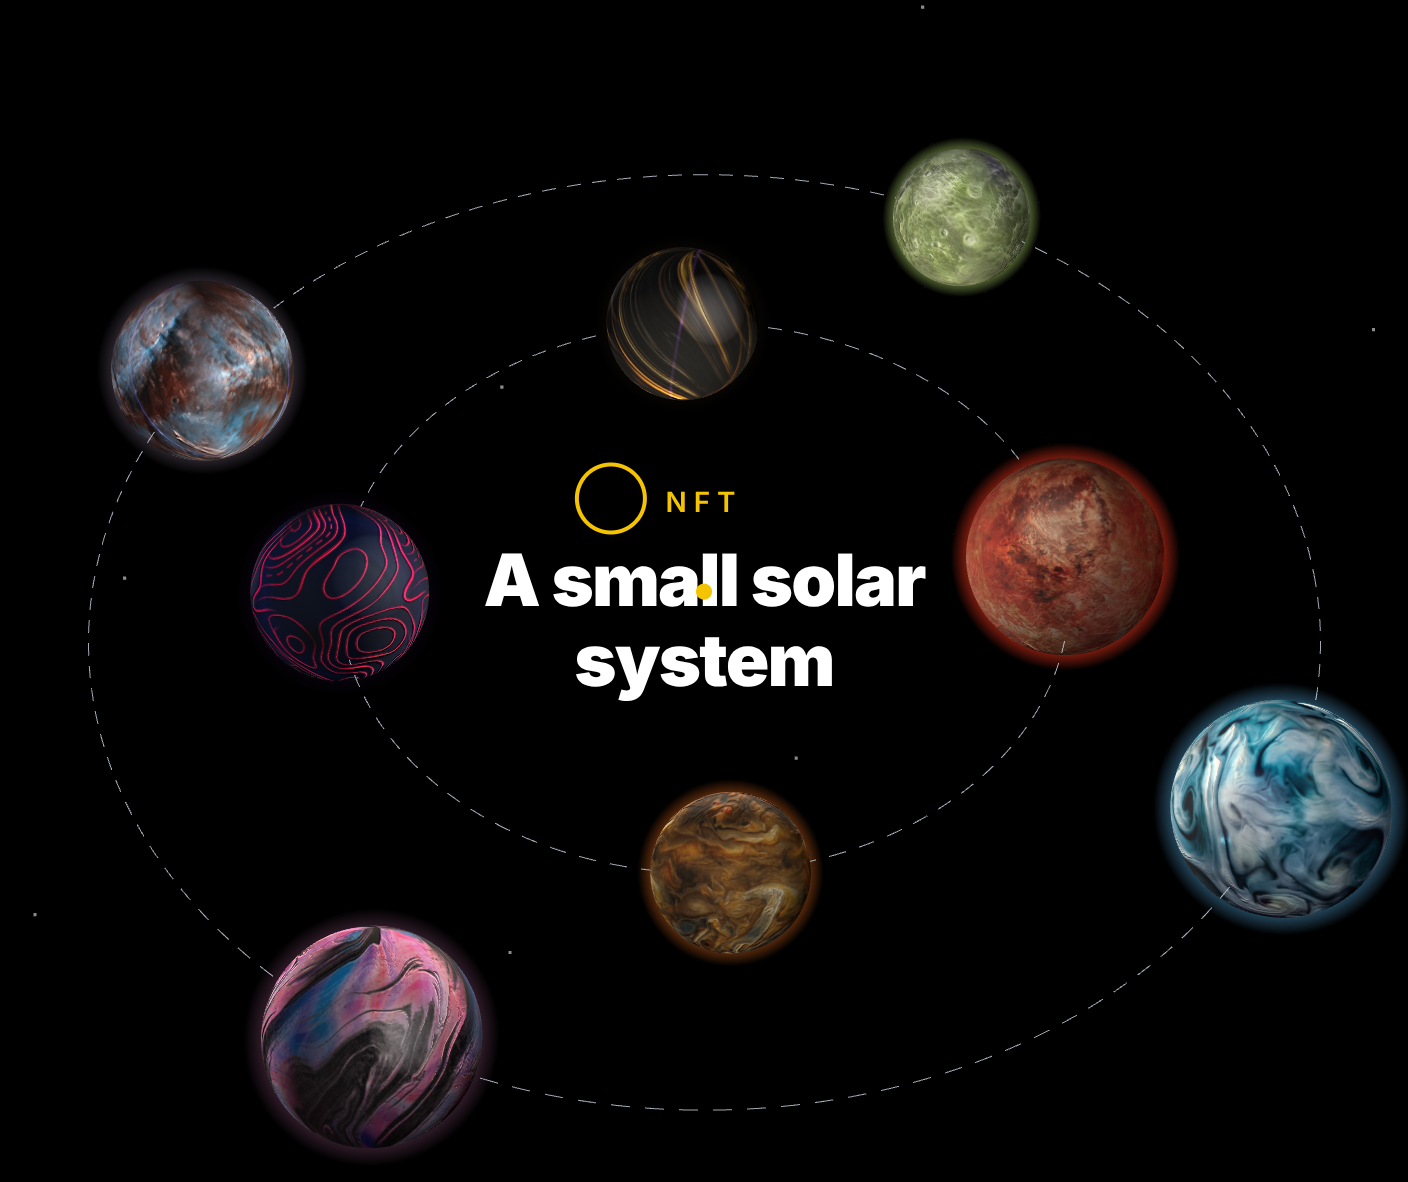
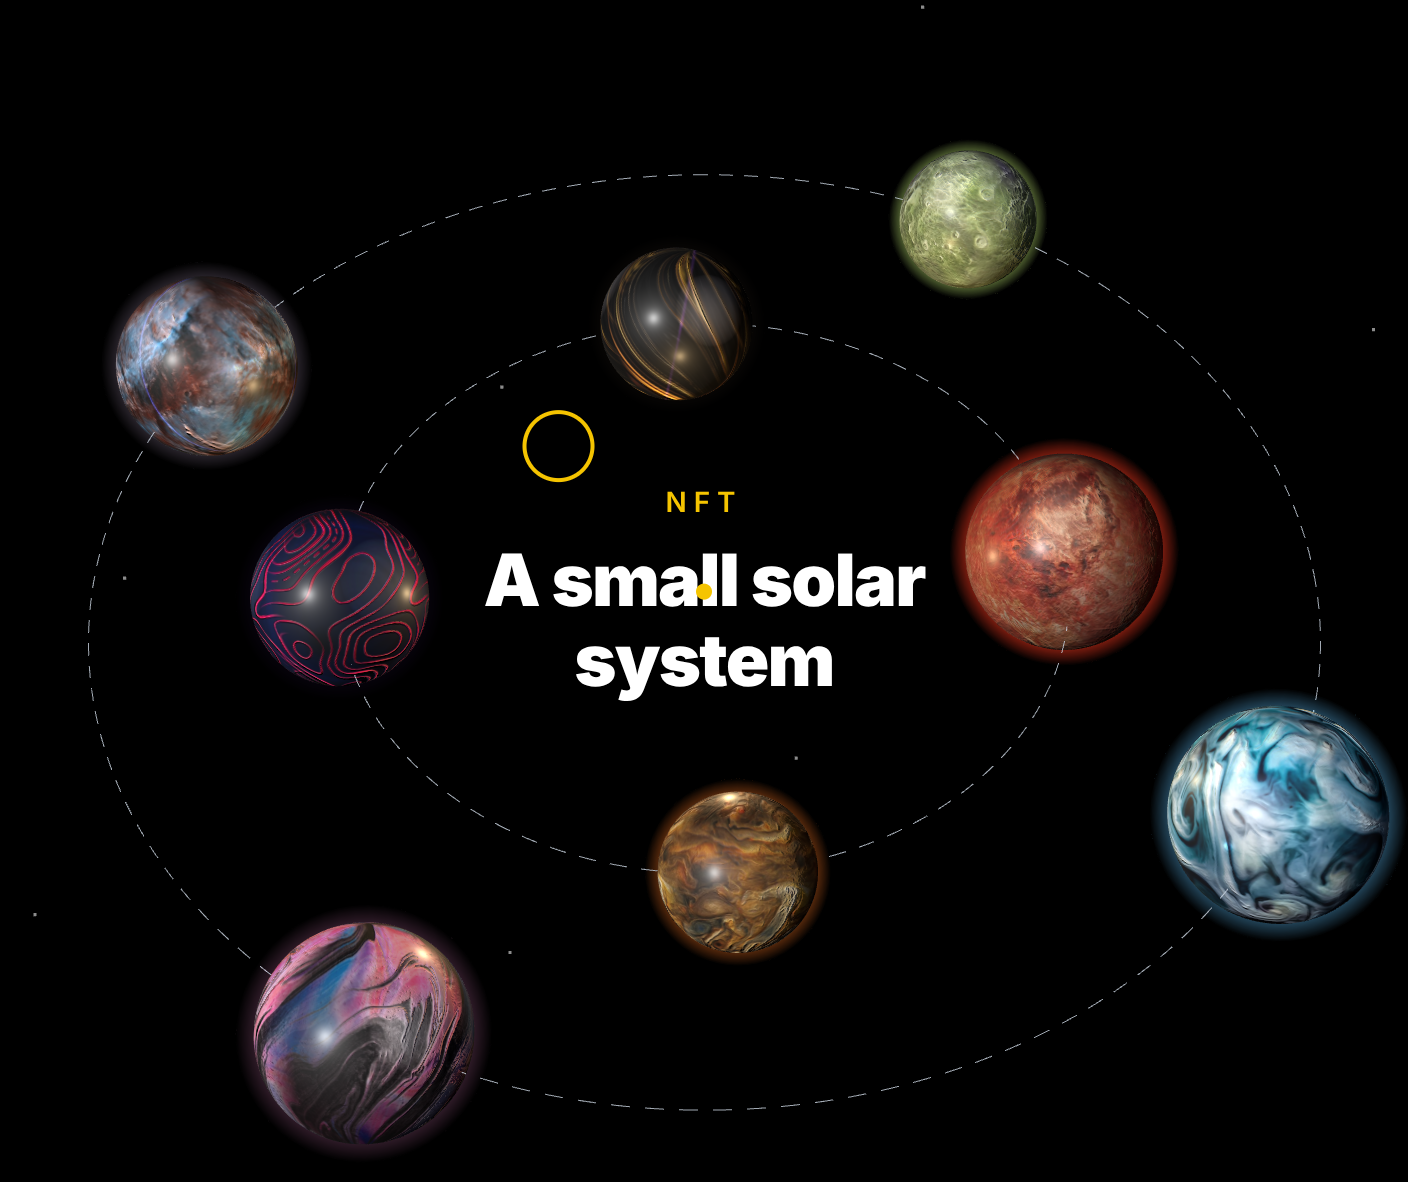
Orbit 3D look: shade planets as solid balls and let visitors turn them
A strong key light with little fill gives every planet a lit side, a shadow side
and a glossy clearcoat highlight, with a warm light from the middle of the system,
so each one reads as a sphere rather than a disc. Planets can be grabbed and
turned by hand (touch too, without blocking vertical scrolling) and keep turning
for a moment when let go. Adds a turntable sheet of all eight planets.

Claude-Session: https://claude.ai/code/session_01KjeKB3t9otzsPaULNBKz9P

diff --git a/apps/web/components/blocks/animated/OrbitScene.vue b/apps/web/components/blocks/animated/OrbitScene.vue
@@ -3,8 +3,9 @@
  * The 3D look of the orbit block: a small solar system seen in perspective from above and in front. Each picture
  * becomes a globe (see lib/planet-globe) with a little relief and a glowing atmosphere, spinning on its own tilted
  * axis while the two dashed orbits carry the planets round in opposite directions; on a dark background a few stars
- * drift behind. Moving the pointer swings the camera a little; pointing at the system stops the orbits (the planets
- * keep spinning) and names the planet under the pointer. Three.js is only downloaded by pages that use this look.
+ * drift behind. Each planet can be grabbed and turned by hand, and keeps turning for a moment when let go. Moving
+ * the pointer swings the camera a little; pointing at the system stops the orbits (the planets keep spinning) and
+ * names the planet under the pointer. Three.js is only downloaded by pages that use this look.
  * While `still` (the editor, or a visitor who asked for less motion) one frame is drawn and nothing moves. Emits
  * `ready` once the first frame with its pictures is on screen, and `failed` when the browser can't draw WebGL.
  */
@@ -105,13 +106,15 @@ onMounted(async () => {
   const camera = new THREE.PerspectiveCamera(FOV, 1, 0.1, 60);
   let distance = 4;
 
-  // Light comes from the middle of the system, like a sun, with soft fill so the far sides aren't black.
-  scene.add(new THREE.HemisphereLight(0xffffff, 0x404060, dark ? 0.9 : 1.3));
-  const sun = new THREE.PointLight(0xfff4e0, 3.2, 0, 0);
-  scene.add(sun);
-  const key = new THREE.DirectionalLight(0xffffff, 0.8);
-  key.position.set(-2, 3, 2);
+  // Real shading, so each planet reads as a ball: a strong light from the upper left gives every planet a lit side,
+  // a soft shadow side and a glossy highlight; a warm light in the middle of the system, like a sun, catches the
+  // sides facing it; and only a little fill, so the shadow sides stay dark without going black.
+  scene.add(new THREE.HemisphereLight(0xdde4ff, 0x10101a, dark ? 0.35 : 0.7));
+  const key = new THREE.DirectionalLight(0xffffff, 3);
+  key.position.set(-2.5, 3, 2.2);
   scene.add(key);
+  const sun = new THREE.PointLight(0xffd9a0, 2.2, 0, 0);
+  scene.add(sun);
 
   const ringColor = new THREE.Color(ringTone.value ? getComputedStyle(ringTone.value).color : '#cbd5e1');
   const accent = new THREE.Color(accentTone.value ? getComputedStyle(accentTone.value).color : '#6366f1');
@@ -132,12 +135,20 @@ onMounted(async () => {
     direction: number;
     speed: number;
     spin: number;
+    /** Extra turn from being dragged, in radians per second round the camera's up and right axes; it dies away. */
+    fling: Three.Vector2;
     name: string;
   }
   const planets: Planet[] = [];
 
   function makePlanet(item: Item, size: number) {
-    const material = new THREE.MeshStandardMaterial({ roughness: 0.85, metalness: 0, color: item.image ? 0xffffff : accent });
+    const material = new THREE.MeshPhysicalMaterial({
+      roughness: 0.62,
+      metalness: 0,
+      clearcoat: 0.5,
+      clearcoatRoughness: 0.3,
+      color: item.image ? 0xffffff : accent,
+    });
     const glowMaterial = new THREE.ShaderMaterial({
       vertexShader: ATMOSPHERE_VERTEX,
       fragmentShader: ATMOSPHERE_FRAGMENT,
@@ -219,6 +230,7 @@ onMounted(async () => {
         direction: ring.direction,
         speed: ring.speed,
         spin: 0.25 + hash(seed + 11) * 0.3,
+        fling: new THREE.Vector2(),
         name: item.name,
       });
     });
@@ -308,29 +320,82 @@ onMounted(async () => {
   const pointer = new THREE.Vector2();
   const raycaster = new THREE.Raycaster();
   let hovering = false;
-  function pick() {
+  let grabbed: { planet: Planet; x: number; y: number; time: number } | null = null;
+  function planetAt() {
     raycaster.setFromCamera(pointer, camera);
     const hit = raycaster.intersectObjects(
       planets.map((p) => p.body),
       false,
     )[0];
-    const planet = hit && planets.find((p) => p.body === hit.object);
+    return hit && planets.find((p) => p.body === hit.object);
+  }
+  function pick() {
+    const planet = grabbed?.planet ?? planetAt();
+    el.style.cursor = grabbed ? 'grabbing' : planet ? 'grab' : '';
     if (!planet?.name) return (label.value = null);
     const at = planet.holder.position.clone();
     at.y -= planet.glow.scale.x * 1.25;
     at.project(camera);
     label.value = { name: planet.name, x: (at.x + 1) * 50, y: (1 - at.y) * 50 };
   }
+  /** Turn a planet's globe round an axis given in world space (its parents are tilted, so convert first). */
+  const turnAxis = new THREE.Vector3();
+  const parentTurn = new THREE.Quaternion();
+  const turn = new THREE.Quaternion();
+  function spinBy(planet: Planet, axis: Three.Vector3, angle: number) {
+    planet.body.parent!.getWorldQuaternion(parentTurn).invert();
+    turnAxis.copy(axis).applyQuaternion(parentTurn).normalize();
+    planet.body.quaternion.premultiply(turn.setFromAxisAngle(turnAxis, angle));
+  }
+  const up = new THREE.Vector3();
+  const right = new THREE.Vector3();
+  function spinFromScreen(planet: Planet, dx: number, dy: number) {
+    up.set(0, 1, 0).applyQuaternion(camera.quaternion);
+    right.set(1, 0, 0).applyQuaternion(camera.quaternion);
+    spinBy(planet, up, dx);
+    spinBy(planet, right, dy);
+  }
+
+  // Grab a planet to turn it by hand; let go and it keeps turning for a moment.
+  function down(e: PointerEvent) {
+    move(e);
+    const planet = planetAt();
+    if (!planet) return;
+    grabbed = { planet, x: e.clientX, y: e.clientY, time: performance.now() };
+    planet.fling.set(0, 0);
+    el.setPointerCapture(e.pointerId);
+    pick();
+  }
+  function release(e: PointerEvent) {
+    if (!grabbed) return;
+    grabbed = null;
+    if (el.hasPointerCapture(e.pointerId)) el.releasePointerCapture(e.pointerId);
+    pick();
+    start();
+  }
   function move(e: PointerEvent) {
     const rect = el.getBoundingClientRect();
     pointer.set(((e.clientX - rect.left) / rect.width) * 2 - 1, -((e.clientY - rect.top) / rect.height) * 2 + 1);
-    hovering = e.pointerType === 'mouse';
+    hovering = e.pointerType === 'mouse' || Boolean(grabbed);
+    if (grabbed) {
+      // A drag across the planet's width turns it about half way round.
+      const perPixel = 3 / Math.max(rect.width * grabbed.planet.body.scale.x, 1);
+      const dx = (e.clientX - grabbed.x) * perPixel;
+      const dy = (e.clientY - grabbed.y) * perPixel;
+      const now = performance.now();
+      const dt = Math.max((now - grabbed.time) / 1000, 1 / 120);
+      spinFromScreen(grabbed.planet, dx, dy);
+      grabbed.planet.fling.set(dx / dt, dy / dt).clampLength(0, 12);
+      Object.assign(grabbed, { x: e.clientX, y: e.clientY, time: now });
+      if (props.still) redraw();
+    }
     view.toAzimuth = pointer.x * SWING.azimuth;
     view.toElevation = ELEVATION + pointer.y * SWING.elevation;
     pick();
     if (props.still) redraw();
   }
   function leave() {
+    if (grabbed) return;
     hovering = false;
     view.toAzimuth = 0;
     view.toElevation = ELEVATION;
@@ -338,6 +403,9 @@ onMounted(async () => {
   }
   el.addEventListener('pointermove', move);
   el.addEventListener('pointerleave', leave);
+  el.addEventListener('pointerdown', down);
+  el.addEventListener('pointerup', release);
+  el.addEventListener('pointercancel', release);
 
   // The clock only runs while the system is on screen and allowed to move.
   let visible = true;
@@ -351,7 +419,15 @@ onMounted(async () => {
     last = now;
     if (!hovering) orbitTime += dt;
     place(orbitTime);
-    for (const p of planets) p.body.rotation.y += dt * p.spin;
+    for (const p of planets) {
+      if (p !== grabbed?.planet) {
+        p.body.rotateY(dt * p.spin);
+        if (p.fling.lengthSq() > 1e-4) {
+          spinFromScreen(p, p.fling.x * dt, p.fling.y * dt);
+          p.fling.multiplyScalar(Math.exp(-dt * 2.5));
+        }
+      }
+    }
     const ease = 1 - Math.exp(-dt * 4);
     view.azimuth += (view.toAzimuth - view.azimuth) * ease;
     view.elevation += (view.toElevation - view.elevation) * ease;
@@ -398,6 +474,9 @@ onMounted(async () => {
     sized.disconnect();
     el.removeEventListener('pointermove', move);
     el.removeEventListener('pointerleave', leave);
+    el.removeEventListener('pointerdown', down);
+    el.removeEventListener('pointerup', release);
+    el.removeEventListener('pointercancel', release);
     disposables.forEach((d) => d.dispose());
     renderer.dispose();
   };
@@ -414,7 +493,7 @@ onBeforeUnmount(() => dispose());
 </script>
 
 <template>
-  <div ref="box" class="absolute inset-[-6%] transition-opacity duration-700" :class="ready ? 'opacity-100' : 'opacity-0'">
+  <div ref="box" class="absolute inset-[-6%] touch-pan-y transition-opacity duration-700" :class="ready ? 'opacity-100' : 'opacity-0'">
     <canvas ref="canvas" class="block h-full w-full" aria-hidden="true" />
     <span ref="ringTone" class="hidden text-slate-300" />
     <span ref="accentTone" class="hidden text-primary" />
